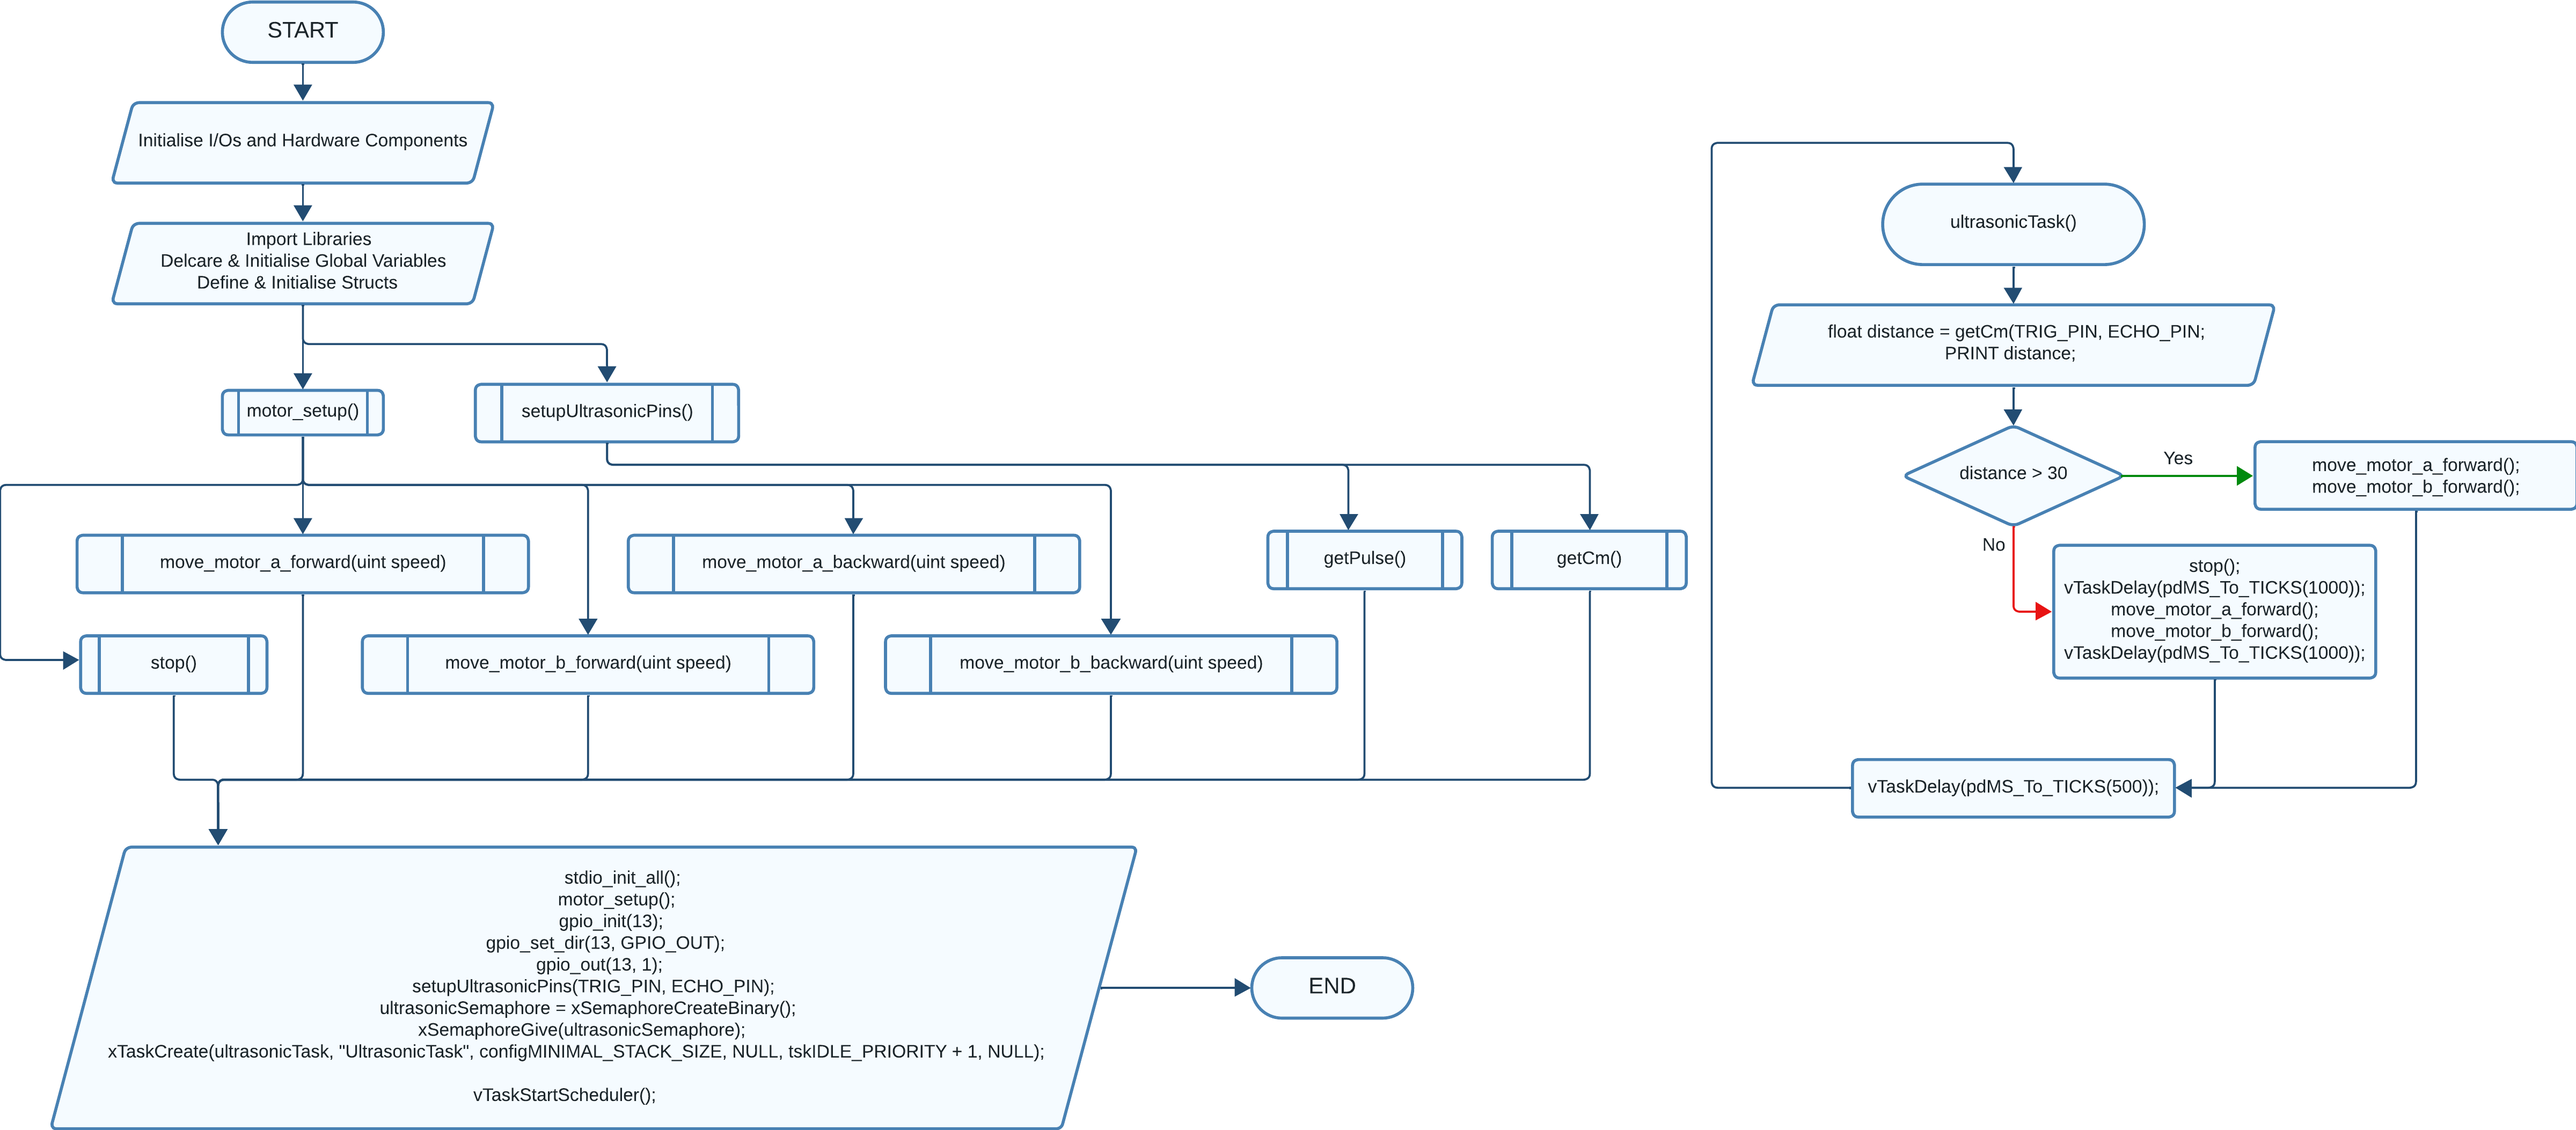
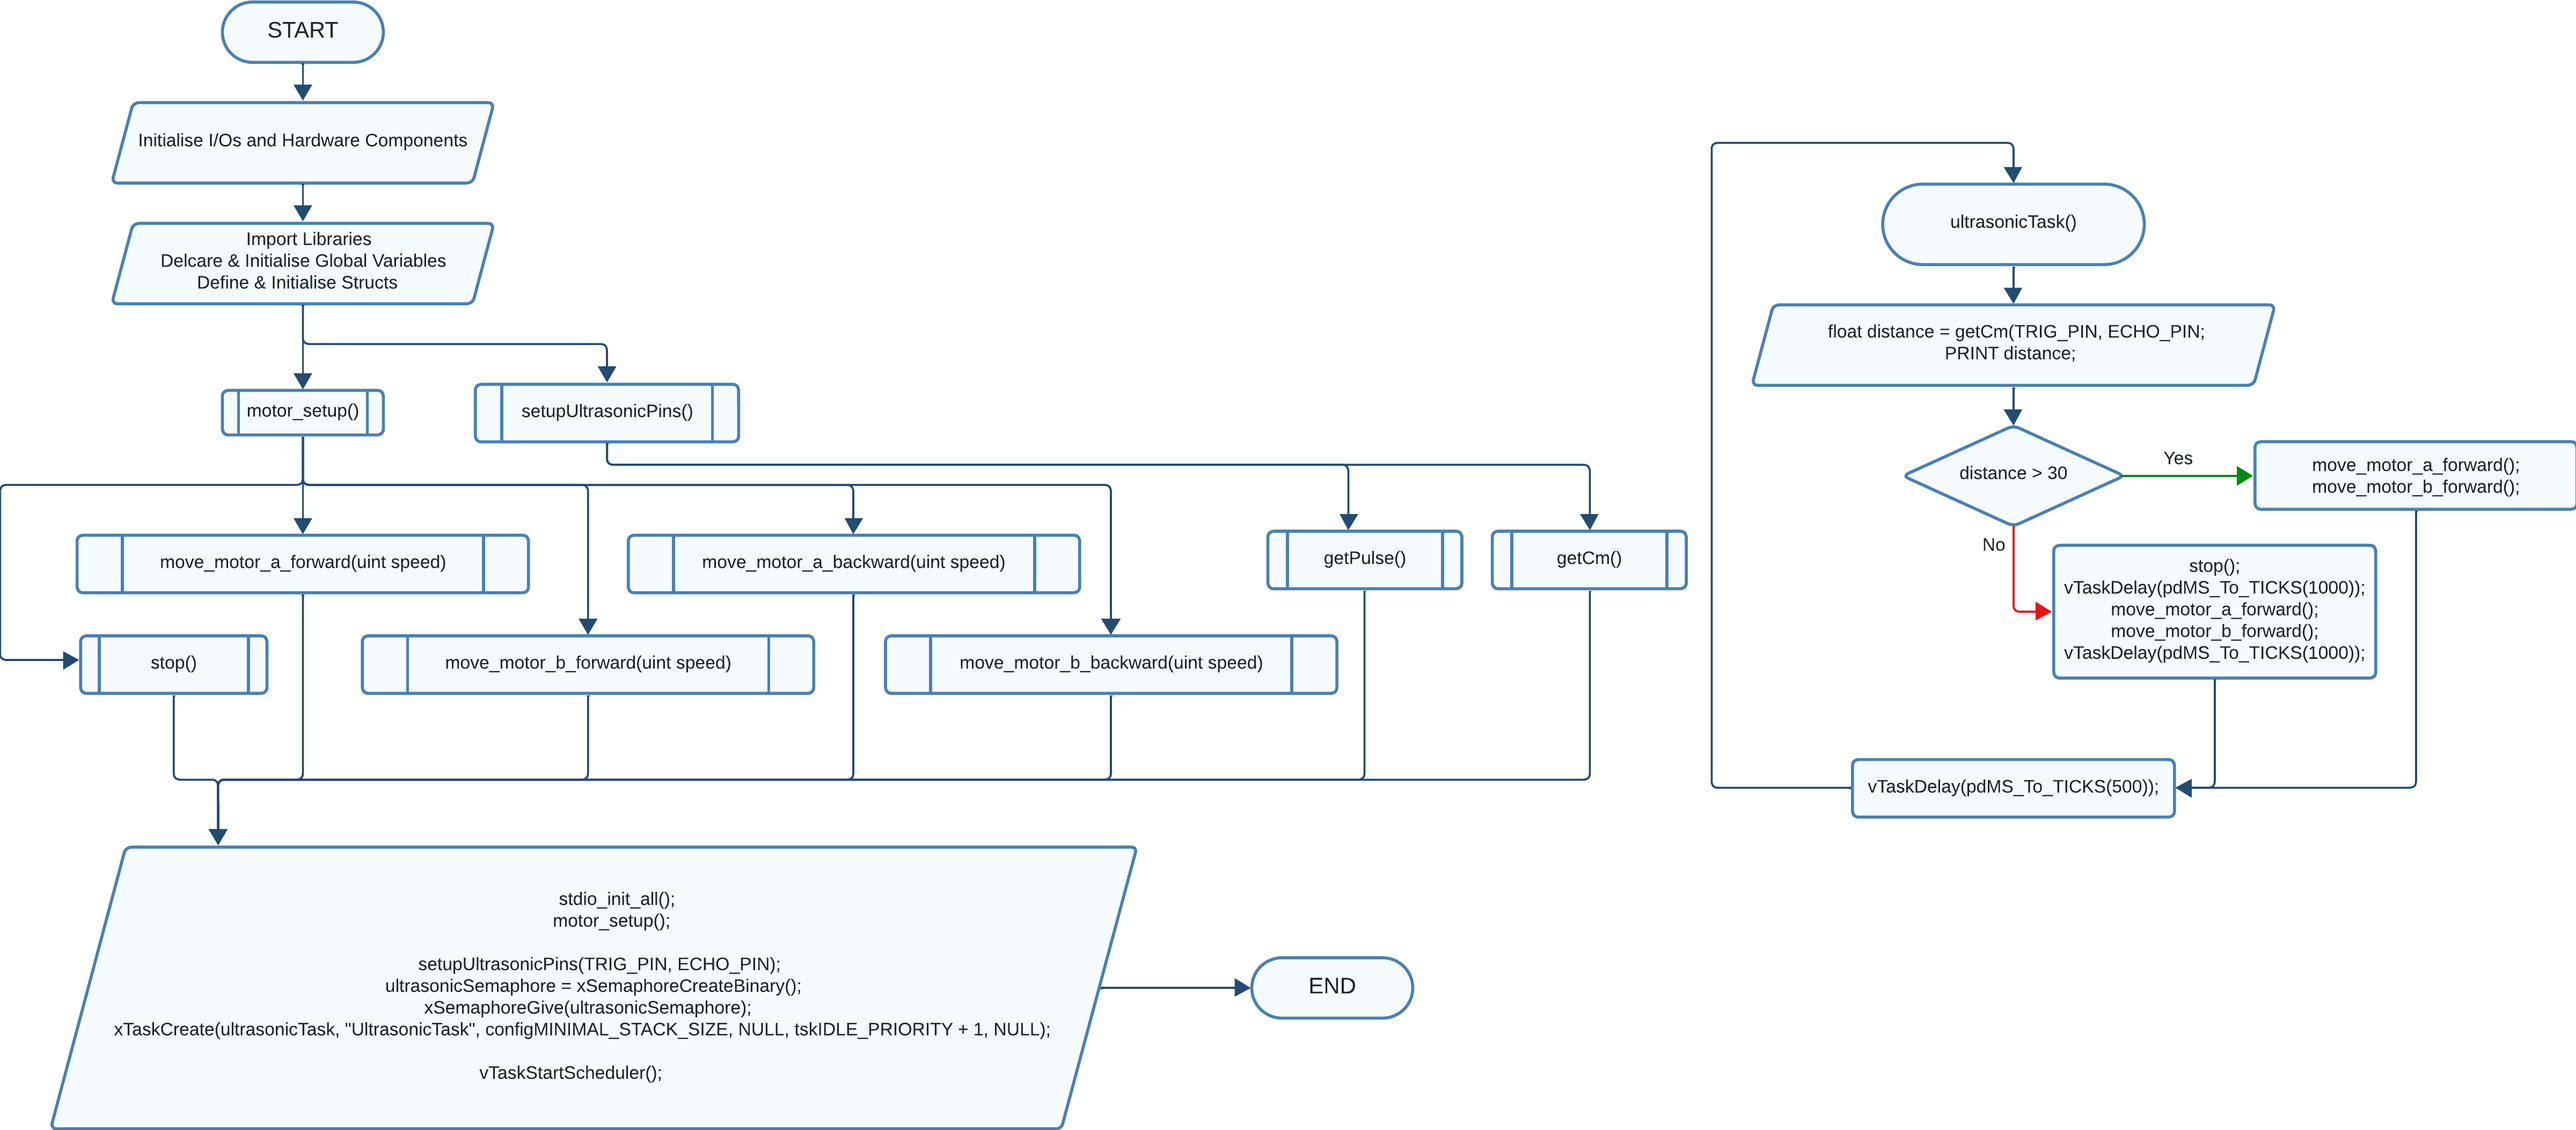
fix image

Changed region(s): [[0.0625, 0.7716, 0.4062, 0.9877]]

diff --git a/partial_integration/obstacle_detector/obstacle_detector.c b/partial_integration/obstacle_detector/obstacle_detector.c
@@ -172,9 +172,6 @@ void ultrasonicTask(void *pvParameters) {
 int main() {
     stdio_init_all();
     motor_setup();
-    gpio_init(13);
-    gpio_set_dir(13, GPIO_OUT);
-    gpio_put(13, 1);
 
     setupUltrasonicPins(TRIG_PIN, ECHO_PIN);
 

diff --git a/README.md b/README.md
@@ -77,12 +77,12 @@ GP2: IN2\
 GP3: IN1\
 GP4: IN4\
 GP5: IN3\
-3V3: +5V\
+3V3 (Connection splitter): +5V\
 
 OUT1: left motor (GND)\
 OUT2: left motor (+5V)\
 OUT3: right motor (GND)\
-OUT4: right motor (+5V)\
+OUT4: right motor (+5V)
 
 2. **GY-511 magnetometer module**
 
@@ -91,7 +91,7 @@ OUT4: right motor (+5V)\
 GND (Pinout 8): GND\
 GP6 (I2C1 SDA): SDA\
 GP7 (I2C1 SCL): SCL\
-GP8: Vcc\
+GP8: Vcc
 
 3. **HC020K rotary encoder module**
 
@@ -102,16 +102,16 @@ GP22: Vcc (Left encoder/wheel)\
 GP26: OUT (Left encoder/wheel)\
 GP27: OUT (right encoder/wheel)\
 GP28: Vcc (right encoder/wheel)\
-GND (Pinout 38): GND (right encoder/wheel)\
+GND (Pinout 38): GND (right encoder/wheel)
 
 4. **HC-SR04 Ultrasound sensor module**
 
 ![Screenshot of ultrasound sensor module - Visual Studio Code](/image/HC-SR04_ultrasound_sensor.jpg)
 
-GP13: Vcc\
 GND (Pinout 18): GND\
 GP14: TRIG\
 GP15: ECHO\
+3V3 (Connection splitter): Vcc
 
 5. **TCRT5000 Infra-Red line tracking module**
 
@@ -119,7 +119,7 @@ GP15: ECHO\
 
 GP16: Vcc\
 GP17: A0 (Analog)\
-GND (Pinout 23): GND\
+GND (Pinout 23): GND
 
 # Project Block Diagram
 
